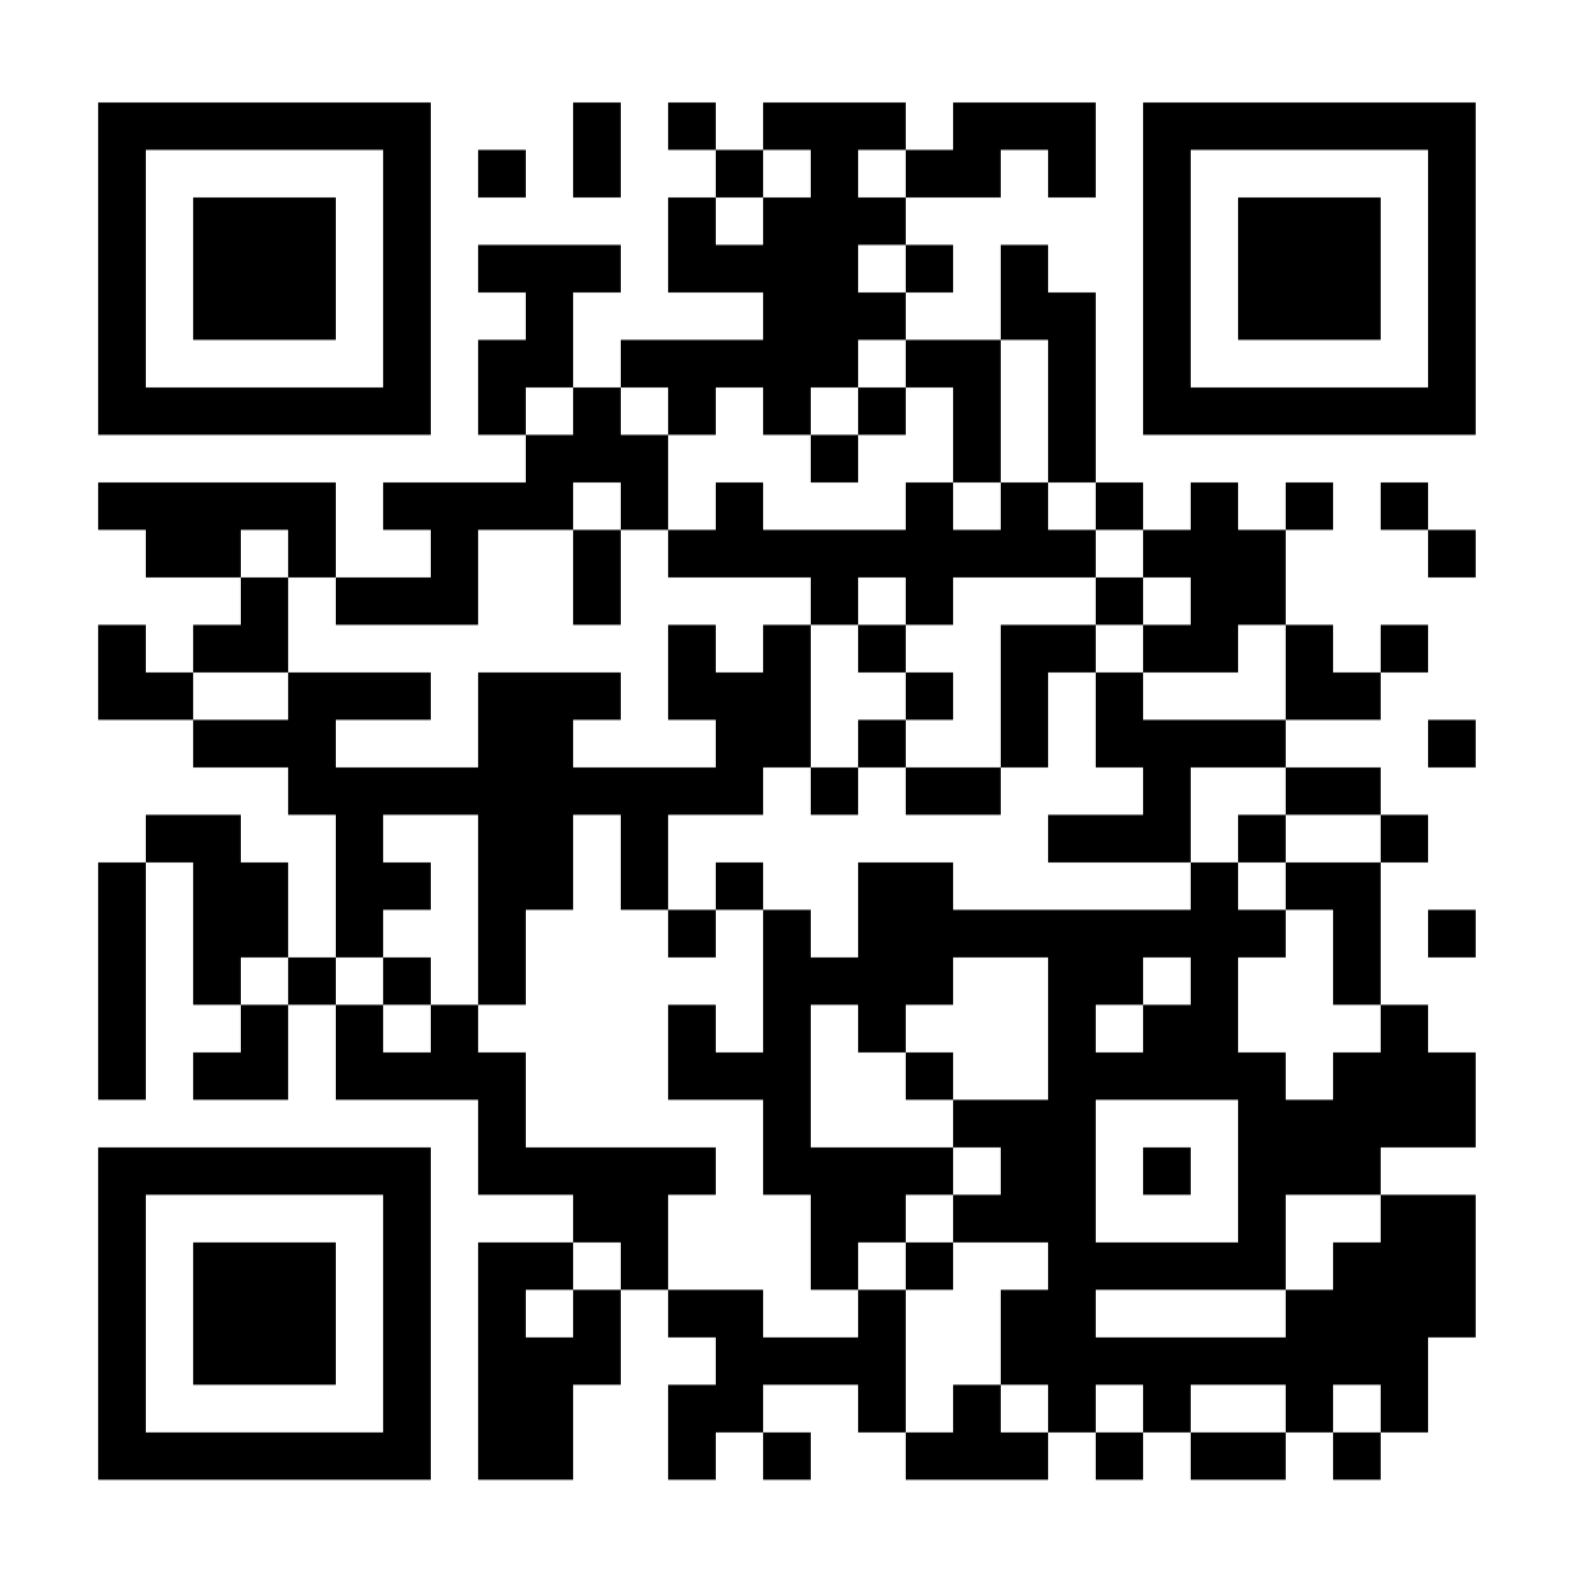
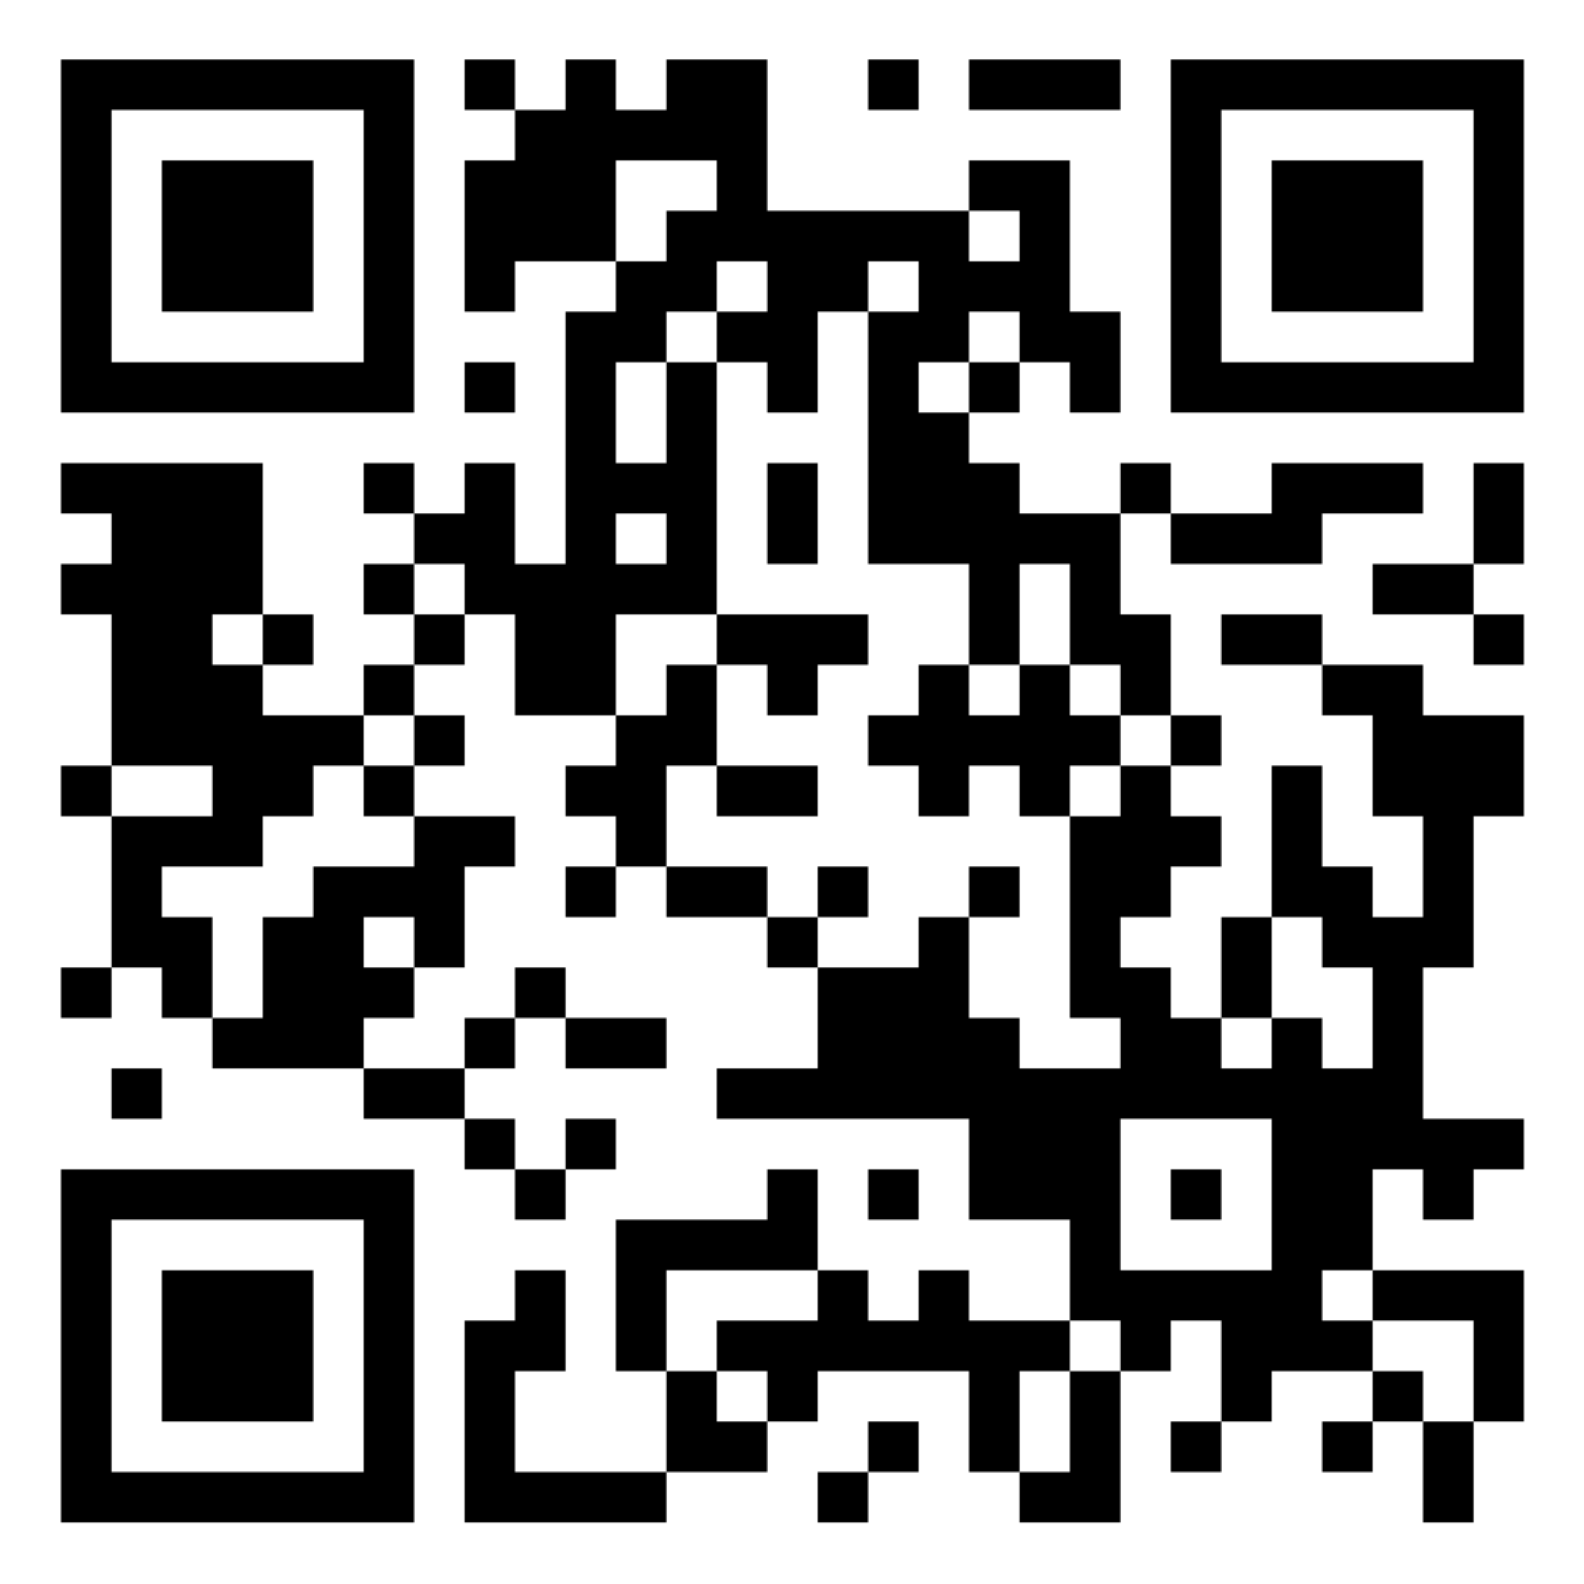
New QR code and updated credits
New QR code for the new survey and updated credits list including Karin and Jakob

diff --git a/philosophers-app/src/components/Credits.tsx b/philosophers-app/src/components/Credits.tsx
@@ -59,6 +59,10 @@ const Credits = ({ onClose }: CreditsProps) => {
           </div>
 
           <div className={styles.entry}>
+            <div className={styles.name}>Karin Hellström</div>
+            <span>Project Factotum, Chalmers University</span>
+          </div>
+          <div className={styles.entry}>
             <div className={styles.name}>Jakob Dahl</div>
             <span>Music</span>
           </div>
@@ -69,23 +73,23 @@ const Credits = ({ onClose }: CreditsProps) => {
         <div className={styles.bottomRow}>
           <div className={styles.section}>
             <div className={styles.sectionTitle}>Philosophers</div>
-            <div className={styles.entry}>Vilém Flusser <span>(1920 – 1991)</span></div>
-            <div className={styles.entry}>Joseph Weizenbaum <span>(1923 – 2008)</span></div>
-            <div className={styles.entry}>Paul Virilio <span>(1932 – 2018)</span></div>
-            <div className={styles.entry}>Peter Weibel <span>(1944 – 2023)</span></div>
-          </div>
-
-          <div className={styles.qrBlock}>
-            <div className={styles.qrLabel}>Scan to fill out the survey:</div>
-            <img
-              className={styles.qrImage}
-              src="/images/qr-survey.png"
-              alt="Survey QR code"
-            />
+            <div className={styles.entry}>Vilém Flusser (1920 – 1991)</div>
+            <div className={styles.entry}>Joseph Weizenbaum (1923 – 2008)</div>
+            <div className={styles.entry}>Paul Virilio (1932 – 2018)</div>
+            <div className={styles.entry}>Peter Weibel (1944 – 2023)</div>
           </div>
         </div>
 
         <div className={styles.divider}>{'─'.repeat(48)}</div>
+
+        <div className={styles.qrBlock}>
+          <div className={styles.qrLabel}>Scan to fill out the survey:</div>
+          <img
+            className={styles.qrImage}
+            src="/images/qr-survey.png"
+            alt="Survey QR code"
+          />
+        </div>
 
         <div className={styles.venue}>
           First public demonstration · Wisdome, Göteborg, Sweden

diff --git a/philosophers-app/src/components/Credits.module.css b/philosophers-app/src/components/Credits.module.css
@@ -26,6 +26,7 @@
   display: flex;
   flex-direction: column;
   gap: 1.4em;
+  position: relative;
 }
 
 .title {
@@ -60,7 +61,6 @@
   display: flex;
   gap: 40px;
   align-items: flex-start;
-  justify-content: space-between;
 }
 
 .qrBlock {
@@ -69,6 +69,9 @@
   align-items: center;
   gap: 0.8em;
   flex-shrink: 0;
+  position: absolute;
+  bottom: 85px;
+  right: 40px;
 }
 
 .qrLabel {
